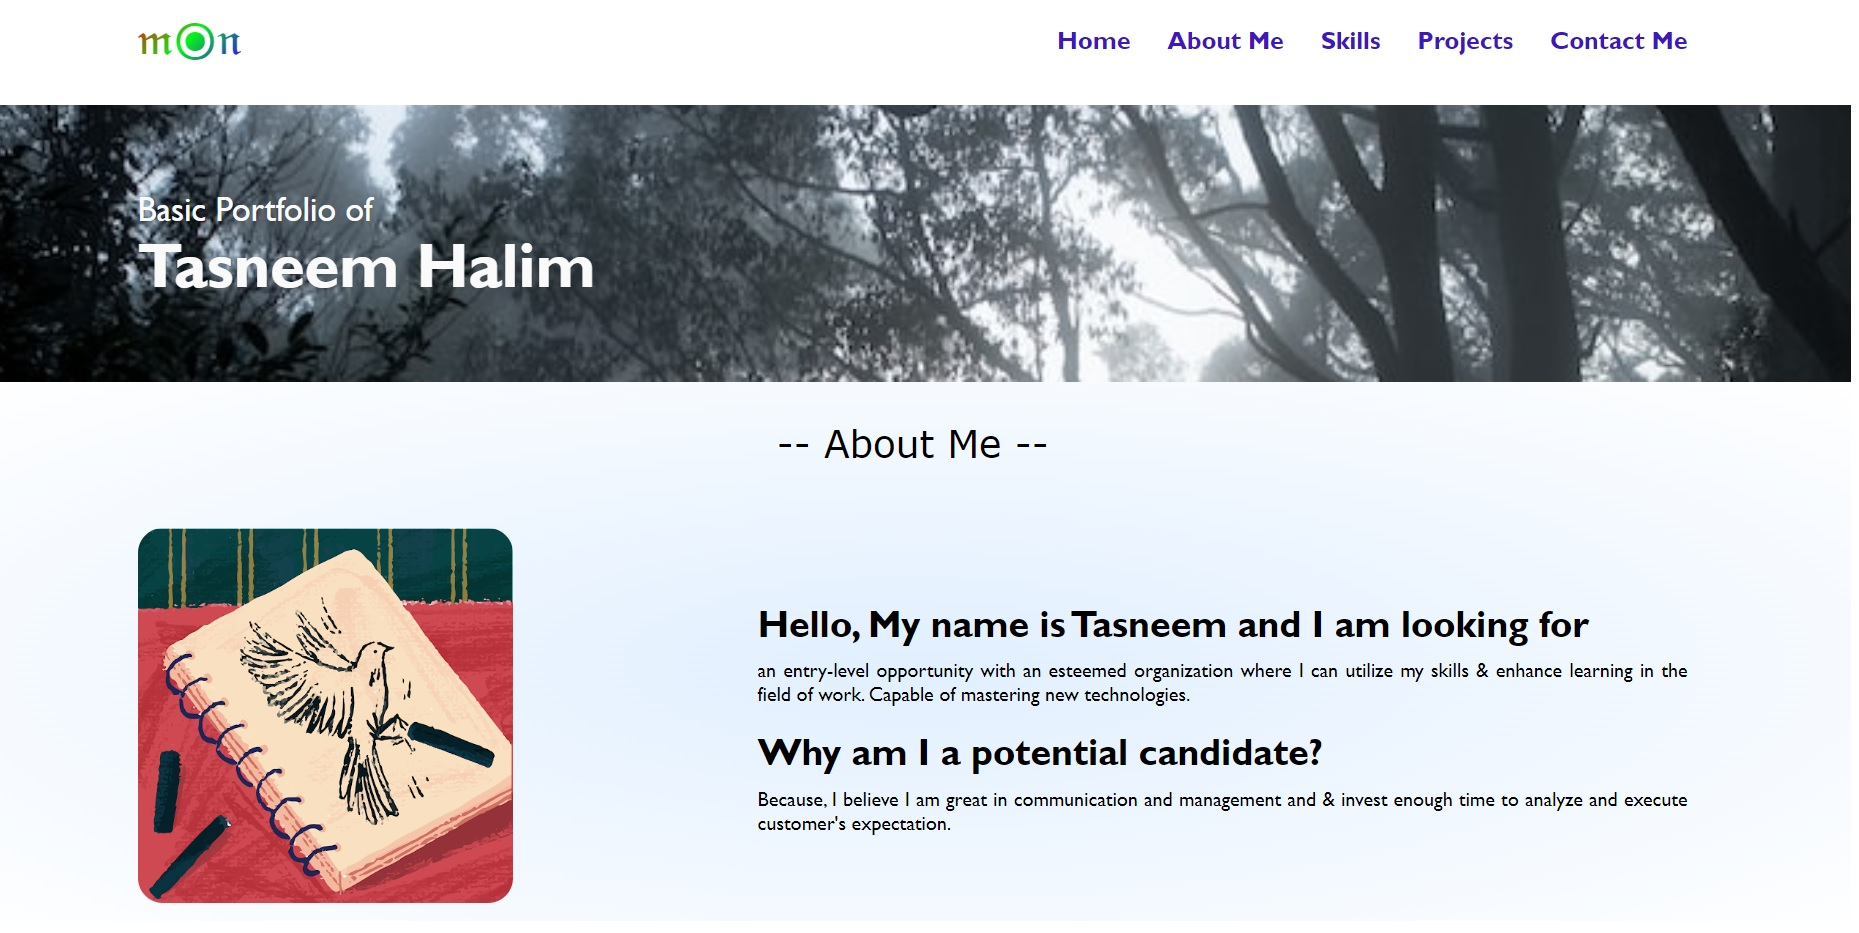
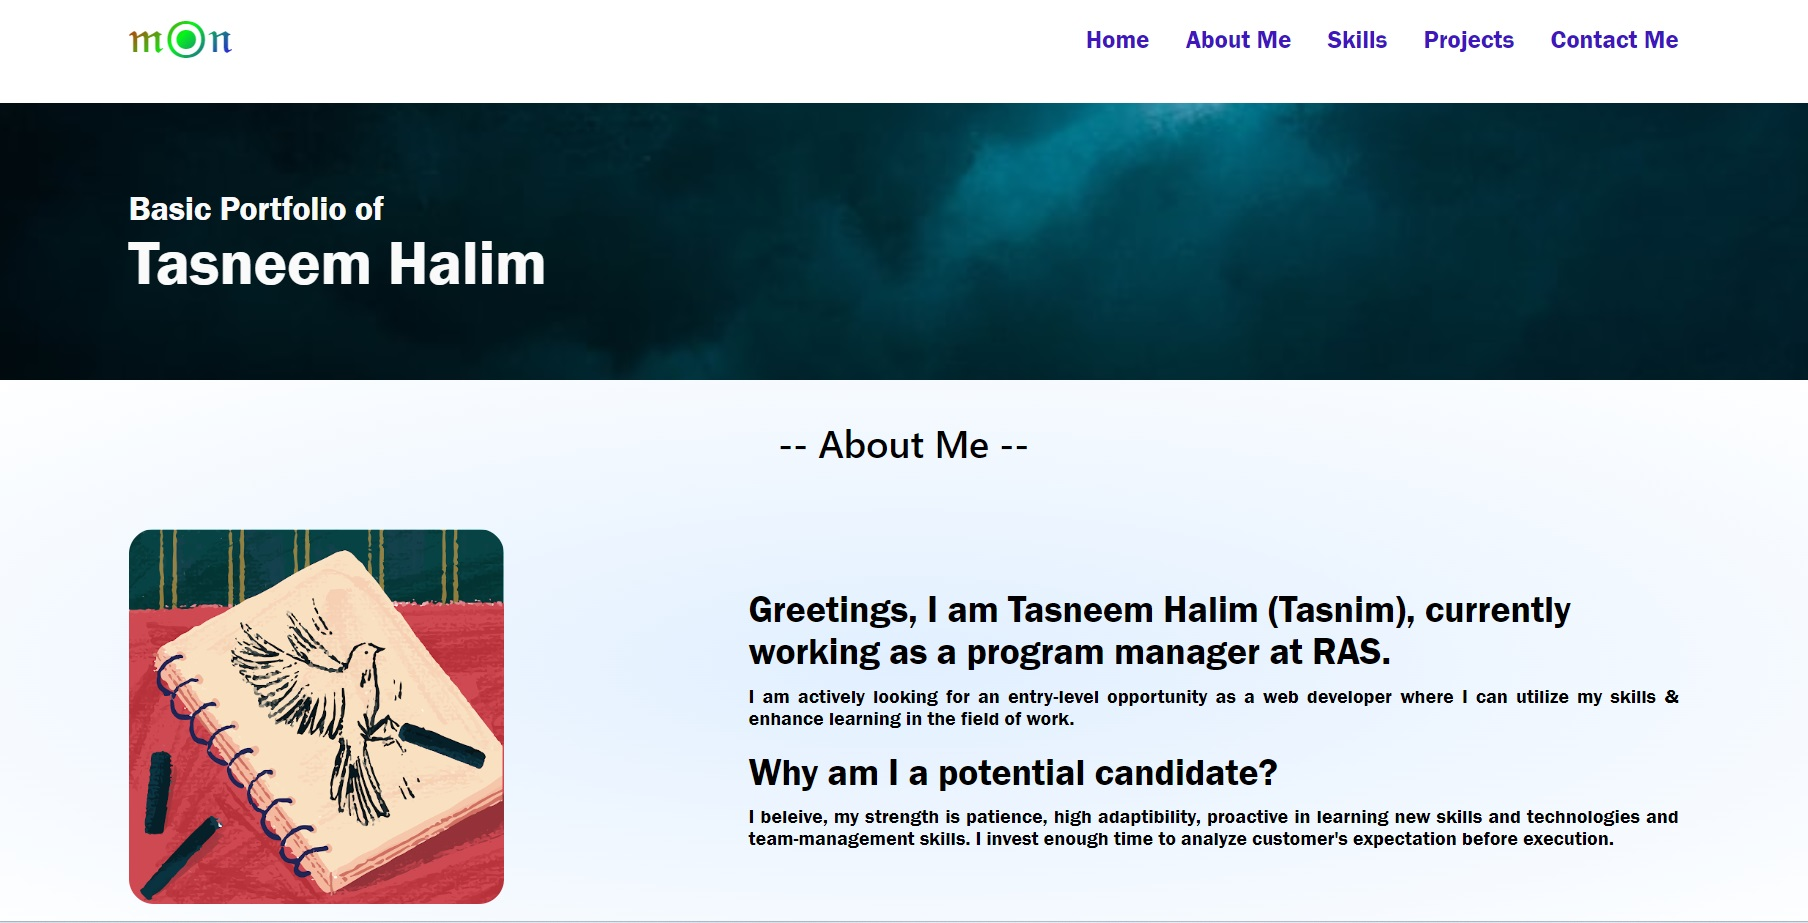
Added profile picture

diff --git a/index.html b/index.html
@@ -38,14 +38,14 @@
           <h2 class="title">-- About Me --</h2>
           <div class="about-content">
             <div class="column left">
-              <img src="./images/Propic.png" alt="An image of two web developers using laptop to finish their work">
+              <img src="./images/Propic.jpg" alt="A women working on her laptop, with a book and a plant infront of her">
             </div>
             <div class="column right">
-              <div class="text">Hello, My name is Tasneem and I am looking for <span class="typing-2"></span></div>
-              <p>an entry-level opportunity with an esteemed organization where I can utilize my skills & enhance learning in the field of work. Capable of mastering new technologies.</p>
+              <div class="text">Greetings, I am Tasneem Halim (Tasnim), currently working as a program manager at RAS. <span class="typing-2"></span></div>
+              <p> I am actively looking for an entry-level opportunity as a web developer where I can utilize my skills & enhance learning in the field of work. </p>
               <br>
               <div class="text">Why am I a potential candidate?</div>
-              <p>Because, I believe I am great in communication and management and & invest enough time to analyze and execute customer's expectation.</p>
+              <p> I beleive, my strength is patience, high adaptibility, proactive in learning new skills and technologies and team-management skills. I invest enough time to analyze customer's expectation before execution.</p>
             </div>
           </div>
         </div>
@@ -60,14 +60,14 @@
               
               <div class="text">DEVELOPMENT SKILLS</div>
               <p>
-                I'm familiar & work on a daily basis with HTML, CSS, JavaScript, Bootstrap, React js and other modern frameworks.
+                I'm familiar & work on a daily basis with HTML, CSS, JavaScript, Bootstrap, Node.js, React and other modern frameworks.
               </p>
               <br>
               <div class="text">EMPLOYMENT EXPERIENCE</div>
               <p>
                 <li class="job">Program Manager - Right AT School</li>
+                <li class="job">Coding Coach and Advisor - Google Codenext</li>
                 <li class="job">Subject Expert Teacher - BASIS International School</li>
-                <li class="job">Teaching Associate - Americorp Envisioneers</li>
               </p>
               <br>
               <div class="text">PROJECT</div>
